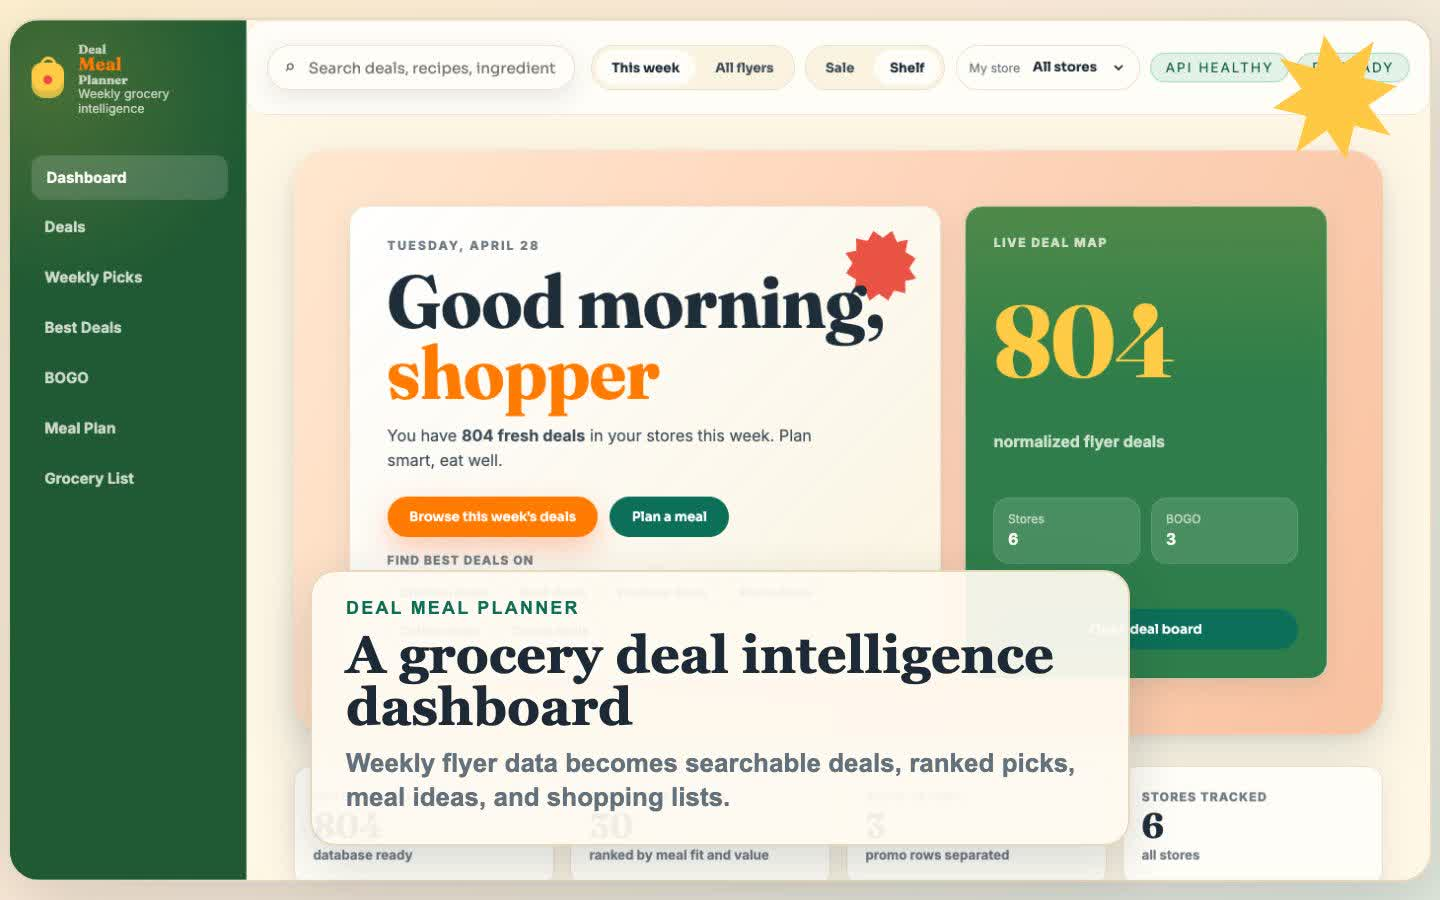
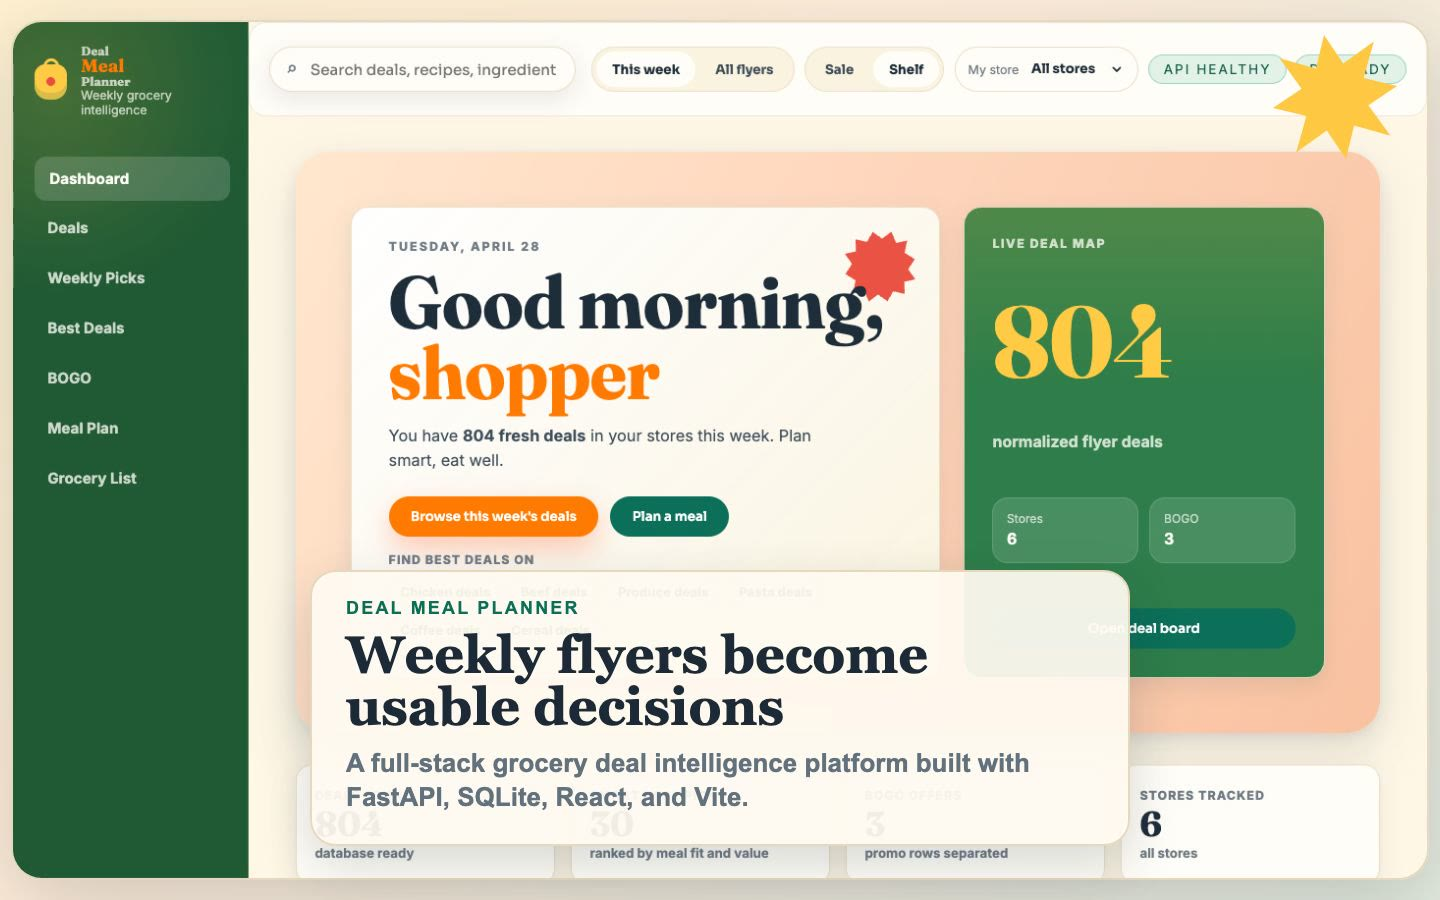
Refresh Deal Meal Planner demo assets

diff --git a/DEMO_REFRESH_CHECKLIST.md b/DEMO_REFRESH_CHECKLIST.md
@@ -1,0 +1,23 @@
+# Demo Refresh Checklist
+
+This checklist tracks the updated Deal Meal Planner demo refresh for the public case study.
+
+## Refresh Scope
+
+- [x] Confirm a first-pass demo GIF/video already exists.
+- [x] Inspect existing Remotion source and screenshot assets.
+- [x] Refresh demo captions to match the current product story.
+- [x] Render updated MP4.
+- [x] Generate updated GIF preview.
+- [x] Generate updated poster image.
+- [x] Copy refreshed assets into the public case-study repo.
+- [x] Update README demo links/copy if needed.
+- [x] Verify refreshed files are portfolio-safe.
+- [x] Commit refreshed public case-study assets.
+- [x] Push refreshed public case-study assets to GitHub.
+
+## Notes
+
+- Keep the source code private.
+- Do not include secrets, private paths, databases, raw flyer files, or operational credentials.
+- The public demo should show product behavior and engineering scope without exposing private implementation details.

diff --git a/README.md b/README.md
@@ -6,6 +6,8 @@ This is a public portfolio case study. The production source code, ingestion scr
 
 ![Deal Meal Planner demo preview](assets/demo/deal-meal-planner-demo-preview.gif)
 
+[Watch the 61-second MP4 demo](assets/demo/deal-meal-planner-demo.mp4)
+
 ## Why I Built It
 
 Weekly grocery savings are useful, but the information is scattered across store flyers, PDFs, promotional text, and time-limited weekly ads. A shopper can see a sale price, but it is hard to compare stores, identify the deals that are actually useful for meals, and turn those deals into a practical shopping plan.